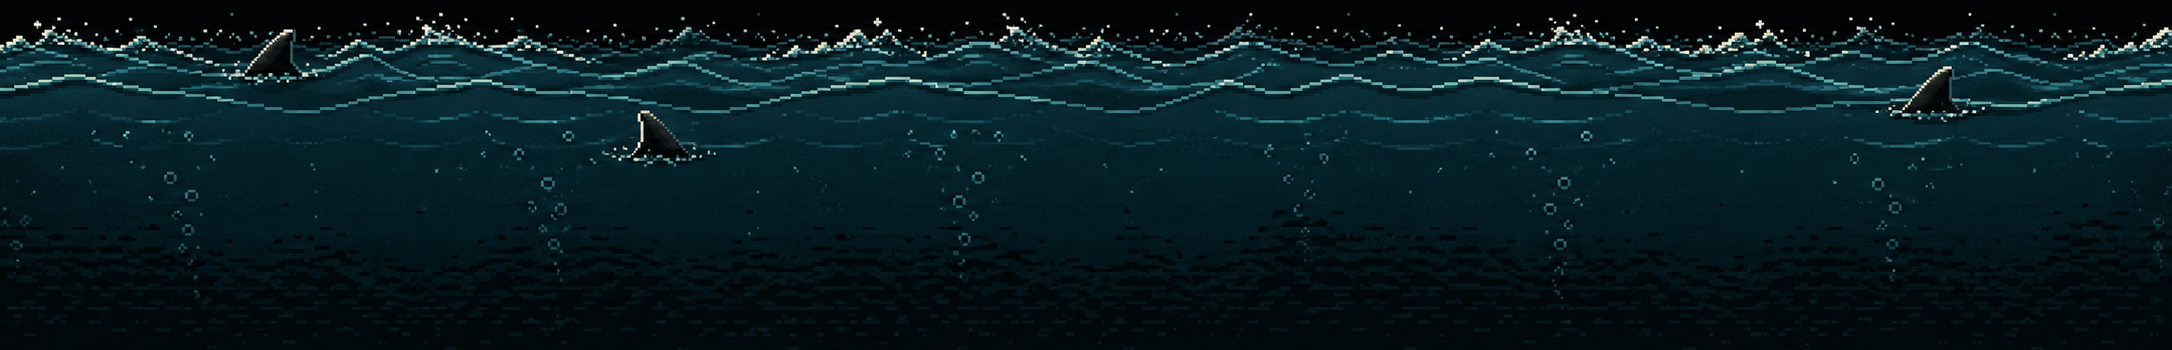
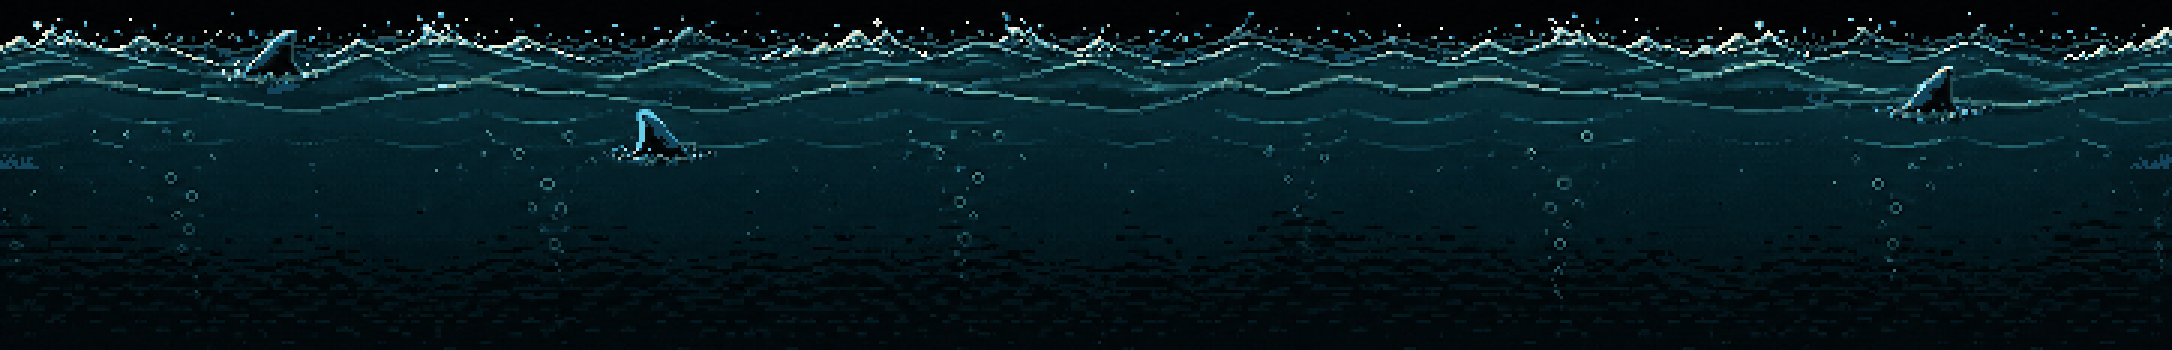
style: improve pixel water motion

diff --git a/frontend/app/components/GameScene.tsx b/frontend/app/components/GameScene.tsx
@@ -49,6 +49,10 @@ const GRASS_TILE_W = 520;
 const GRASS_TILE_H = 130;
 const GRASS_SURFACE_Y = 36;
 const GRASS_SLICE_W = 16;
+const WATER_SHELF_TOP_PCT = 0.73;
+const WATER_SURFACE_SRC_PCT = 0.34;
+const WATER_SURFACE_DRAW_PCT = 0.42;
+const TERRAIN_SCROLL_PX = 18;
 const SPRITE_FRAME_W = 72;
 const SPRITE_FRAME_H = 80;
 const SPRITE_SCALE = 0.5;
@@ -404,7 +408,7 @@ const GameScene = forwardRef<GameSceneHandle, GameSceneProps>(function GameScene
     ctx.fill();
 
     if (img && groundImageReadyRef.current) {
-      const scroll = (anim.current.groundScrollAcc * 18) % GRASS_TILE_W;
+      const scroll = (anim.current.groundScrollAcc * TERRAIN_SCROLL_PX) % GRASS_TILE_W;
       // Each slice overdraws SLICE_OVERLAP px past its right edge so slices
       // mutually cover each other. Without this, sharp slope changes between
       // adjacent slices leave visible vertical slivers because the skewed
@@ -862,8 +866,6 @@ const GameScene = forwardRef<GameSceneHandle, GameSceneProps>(function GameScene
         ctx.textAlign = "start";
       }
 
-      const waveTime = a.frame * 0.03;
-
       /* liquidation line + zone */
       if (isLive && liqPrice !== null) {
         const ly = priceToY(liqPrice);
@@ -911,16 +913,29 @@ const GameScene = forwardRef<GameSceneHandle, GameSceneProps>(function GameScene
 
       /* generated pixel-art water hazard fills the lower gap beneath the cliff */
       const waterImg = waterImageRef.current;
-      const shelfTop = h * 0.73;
+      const shelfTop = h * WATER_SHELF_TOP_PCT;
       const shelfH = h - shelfTop;
       if (waterImg && waterImageReadyRef.current) {
         const tileW = Math.max(w, shelfH * (WATER_SRC_W / WATER_SRC_H));
-        const drift = (waveTime * 24) % tileW;
+        const drift = (a.groundScrollAcc * TERRAIN_SCROLL_PX) % tileW;
+        const waveBob = Math.round(Math.sin(a.frame * 0.055) * 2);
+        const foamDrift = (drift * 1.18 + Math.round(Math.sin(a.frame * 0.035) * 10)) % tileW;
+        const surfaceSrcH = Math.floor(WATER_SRC_H * WATER_SURFACE_SRC_PCT);
+        const surfaceH = Math.ceil(shelfH * WATER_SURFACE_DRAW_PCT);
         ctx.save();
         ctx.globalAlpha = groundAlpha;
         ctx.imageSmoothingEnabled = false;
         for (let x = -drift - tileW; x < w + tileW; x += tileW) {
-          ctx.drawImage(waterImg, x, shelfTop, tileW, shelfH);
+          ctx.drawImage(waterImg, Math.round(x), Math.round(shelfTop + waveBob), Math.round(tileW), Math.round(shelfH));
+        }
+        ctx.globalAlpha = groundAlpha * 0.78;
+        for (let x = -foamDrift - tileW; x < w + tileW; x += tileW) {
+          ctx.drawImage(
+            waterImg,
+            0, 0, WATER_SRC_W, surfaceSrcH,
+            Math.round(x), Math.round(shelfTop - waveBob),
+            Math.round(tileW), surfaceH,
+          );
         }
         const blend = ctx.createLinearGradient(0, shelfTop, 0, shelfTop + shelfH * 0.28);
         blend.addColorStop(0, "rgba(6,10,20,0.65)");
